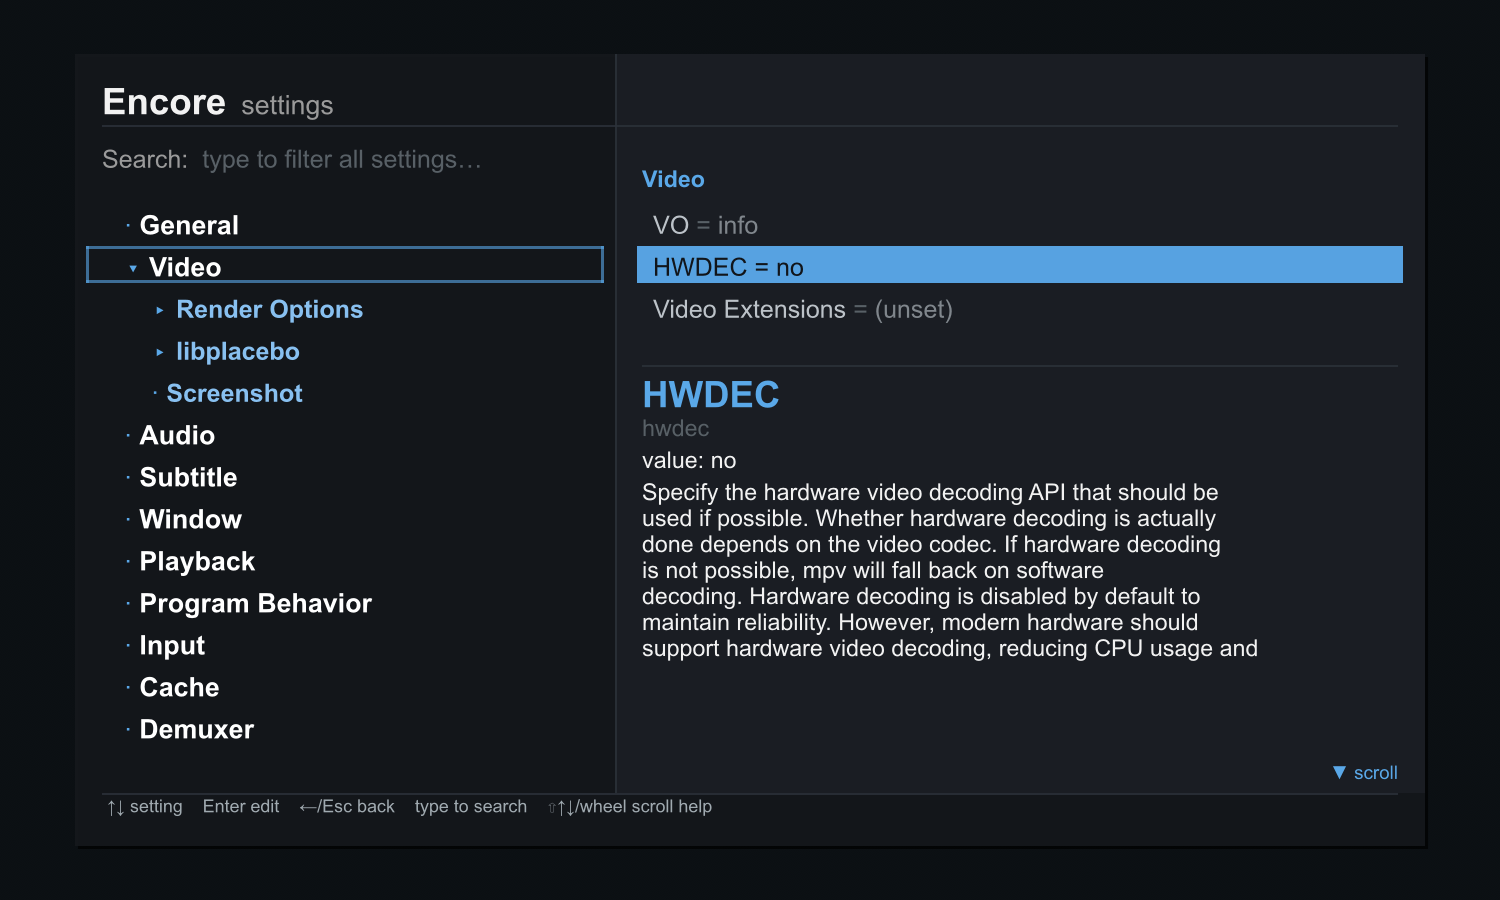
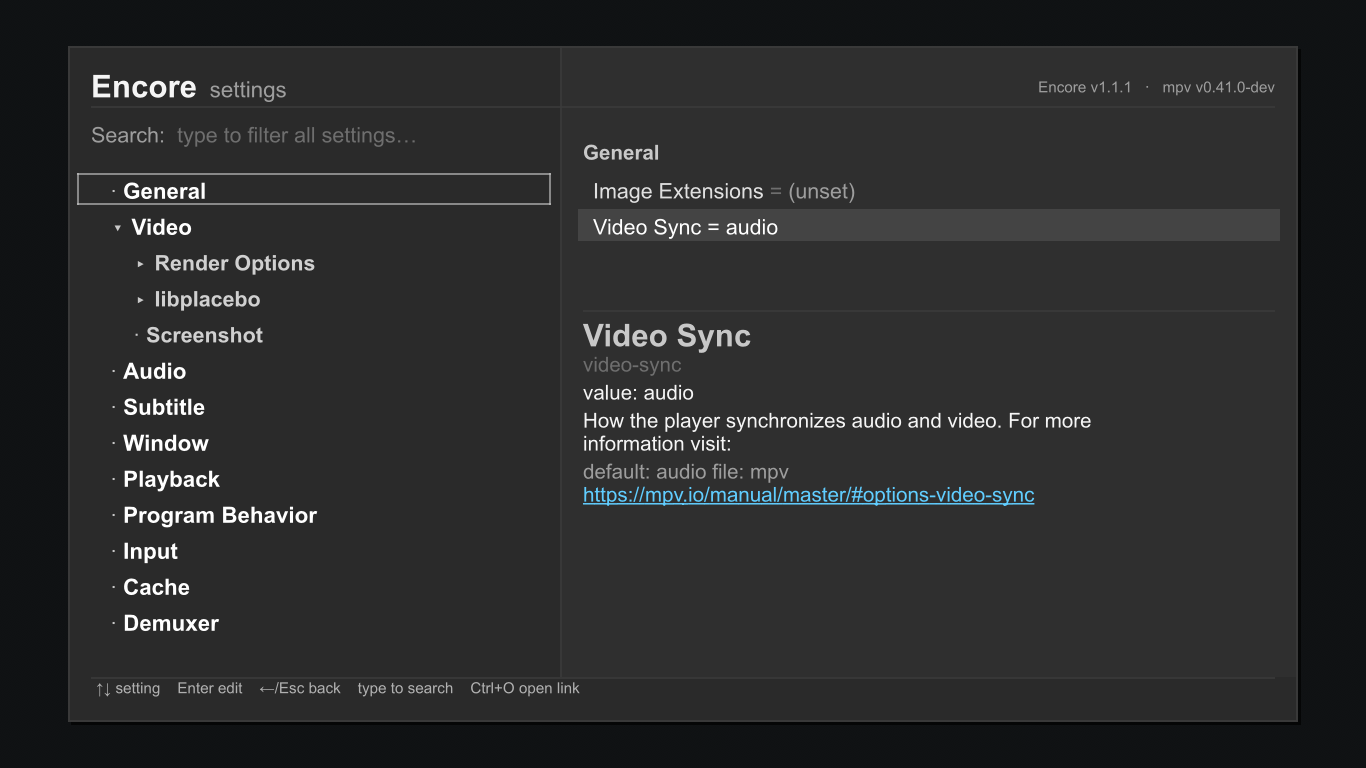
v1.1.1: clickable manual links, version display, refreshed screenshot
- Settings editor: the focused setting's mpv-manual URL is now a clickable
  (blue, underlined) link in the help pane — click it or press Ctrl+O to open
  it in the browser.
- Show the Encore and mpv versions in the settings menu header.
- Update the README screenshot to the native dark theme.

diff --git a/README.md b/README.md
@@ -68,8 +68,9 @@ Open it from **right-click → Settings** (or bind a key to
 
 `↑↓` move · `Enter` edit / expand · `→` into a category's settings · `←`/`Esc`
 back · type anywhere to search all settings · `Shift+↑↓` or wheel to scroll a
-long description. **Mouse:** hover to highlight, click a category to expand,
-click a setting to edit, click outside to close.
+long description · `Ctrl+O` (or click the link) opens a setting's mpv-manual
+page. **Mouse:** hover to highlight, click a category to expand, click a setting
+to edit, click outside to close.
 
 ## Optional: native settings window (Windows)
 